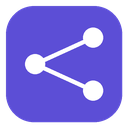
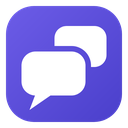
图标：换成双气泡标，重出多尺寸 png 与 ico

diff --git a/frontend/index.html b/frontend/index.html
@@ -94,7 +94,7 @@ button{font:inherit;color:inherit;border:0;background:none;cursor:pointer}
   width:34px;height:34px;flex:0 0 auto;border-radius:9px;
   background:var(--ink);display:grid;place-items:center;
 }
-.mark svg{width:19px;height:19px;stroke:var(--surface)}
+.mark svg{width:19px;height:19px;fill:var(--surface)}
 .brand h1{font-size:var(--fs-lg);font-weight:600;letter-spacing:-.01em;line-height:1.2}
 .brand .sub{font-size:var(--fs-xs);color:var(--ink-3);letter-spacing:.01em}
 
@@ -286,7 +286,7 @@ button{font:inherit;color:inherit;border:0;background:none;cursor:pointer}
 <div class="app">
   <header class="topbar">
     <div class="brand">
-      <div class="mark"><svg viewBox="0 0 24 24" fill="none" stroke-width="1.8" stroke-linecap="round" stroke-linejoin="round"><circle cx="6" cy="6" r="2.4"/><circle cx="18" cy="18" r="2.4"/><circle cx="18" cy="6" r="2.4"/><path d="M8.4 6h7.2M6 8.4v7.2M8.4 18h7.2"/></svg></div>
+      <div class="mark"><svg viewBox="0 0 24 24" aria-hidden="true"><rect x="10.2" y="4" width="10.6" height="7.4" rx="2.6"/><path d="M5.6 8.6h8.6a2.6 2.6 0 0 1 2.6 2.6v2.8a2.6 2.6 0 0 1-2.6 2.6H9.4l-4.2 3.4 1.1-3.4H5.6A2.6 2.6 0 0 1 3 13.9v-2.7a2.6 2.6 0 0 1 2.6-2.6Z" style="stroke:var(--ink);stroke-width:1.9"/></svg></div>
       <div><h1>会话分支管理器</h1><div class="sub">从任意消息分叉出独立会话，原会话保持不变</div></div>
     </div>
     <nav class="steps" aria-label="操作步骤">

diff --git a/assets/README.md b/assets/README.md
@@ -1,13 +1,15 @@
 # 品牌资源
 
-原创设计，概念为「对话分支」：一个源头节点分出两条路径，呼应"从消息分叉会话"的核心功能。参考现代桌面工具的圆润方形图标气质，但图形与配色为本项目原创，不使用任何现有产品的商标或图形。
+原创设计，概念为「两条会话并存」：两个前后叠放的气泡，后面那个是保留的原会话，前面带尾巴的是从它分出的新分支。不使用任何现有产品的商标或图形，也刻意避开了「三点连线」这种会被误读为分享的图形。
 
-- `logo.svg` — 主 logo（渐变背景，含渐变定义），用于 README / GitHub Pages
-- `icon.svg` — 应用图标方形版（纯色，小尺寸清晰）
-- `app.ico` — Windows 多尺寸图标（16/32/48/64/128/256），供 exe 使用
+- `logo.svg` — 主 logo（渐变背景），用于 README / GitHub Pages
+- `icon.svg` — 应用图标源图（与 logo 同几何），所有 PNG 与 ico 都由它导出
+- `app.ico` — Windows 多尺寸图标（16/24/32/48/64/128/256），供 exe 使用
 - `icon-*.png` — 各尺寸 PNG，供 Tauri 打包与网页引用
 
-配色：蓝紫 `#5C4ED6` / `#6C5CE7`，白色节点。与前端 OKLCH 主色 `oklch(52% 0.19 262)` 协调。
+配色：蓝紫 `#6C5CE7` / `#4A3FCB`，白色气泡。与前端 OKLCH 主色 `oklch(52% 0.19 262)` 协调。
+
+导出方式：`icon.svg` 先渲成 512 透明 PNG，再按尺寸缩放；`app.ico` 由同一张母图一次写出多尺寸，避免逐尺寸手绘走形。
 
 ## 图标集
 
